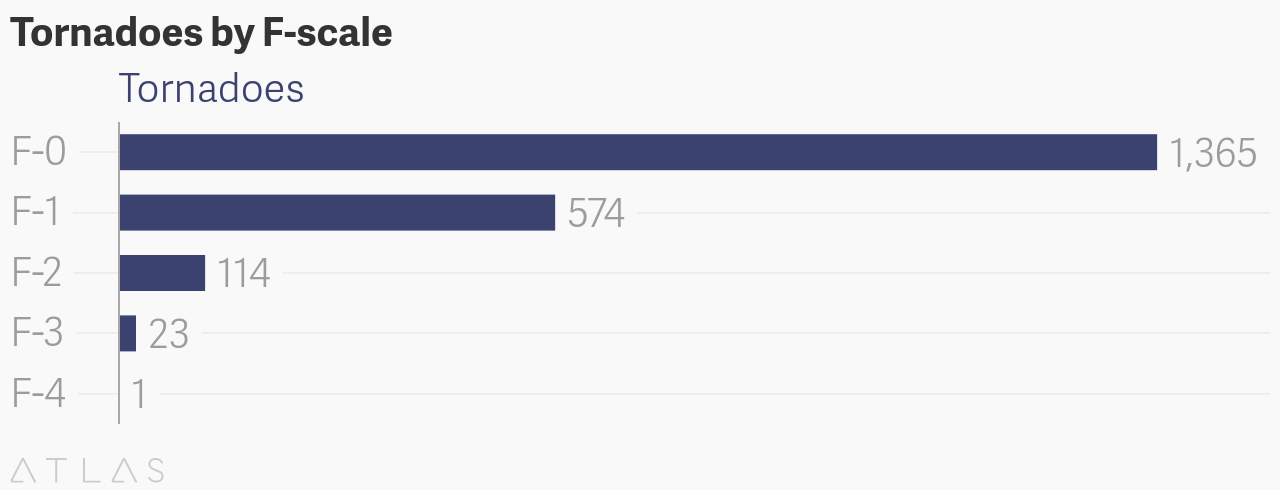
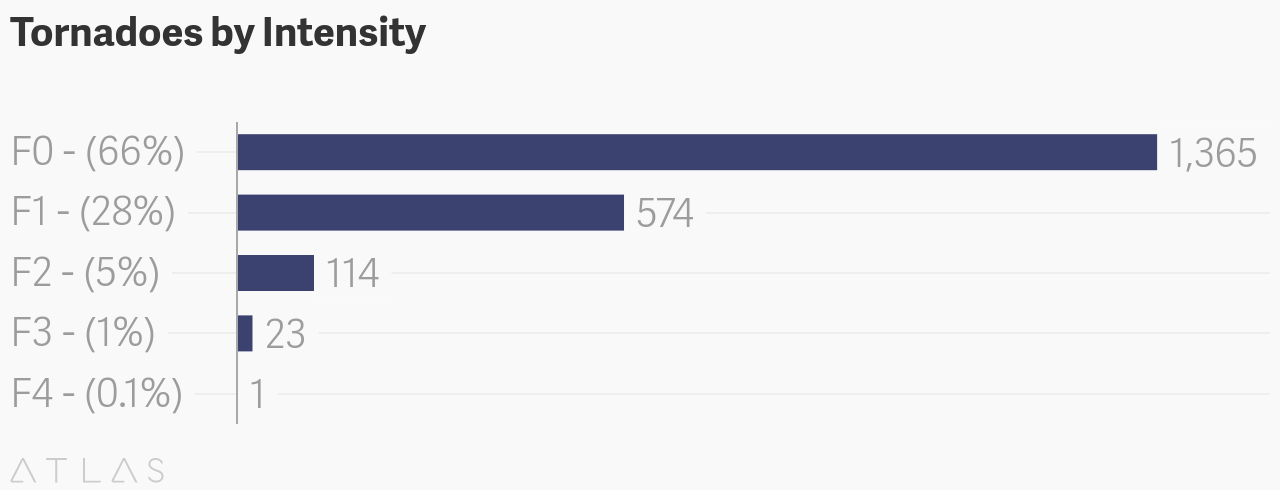
Add charts

diff --git a/tornadoes/filter-map/index.html b/tornadoes/filter-map/index.html
@@ -183,7 +183,6 @@
     <div class="row">
         <div class="large-10 large-centered columns">
             <h1>Colorado Tornadoes: By the Numbers</h1>
-            <h3>A breakdown of storms from 1950-2015</h3>
         </div>
     </div>
     <div class="row">
@@ -191,50 +190,56 @@
             <div class="large-5 medium-5 small-12 columns panel right">
                 <h4 style="font-weight: bold; text-align: center;">Fujita Tornado Damage Scale</h4>
                 <p class="f-scale-underline"><strong>F0</strong> &bull; <em>wind speed < 73 mph</em></p>
-                <p>Light damage. Some damage to chimneys; branches broken off trees; shallow-rooted trees pushed over; sign boards damaged.</p>
+                <p class="f-scale-text">Light damage. Some damage to chimneys; branches broken off trees; shallow-rooted trees pushed over; sign boards damaged.</p>
                 <p class="f-scale-underline"><strong>F1</strong> &bull; <em> wind speed 73-112 mph</em></p>
-                <p>Moderate damage. Peels surface off roofs; mobile homes pushed off foundations or overturned; moving autos blown off roads.</p>
+                <p class="f-scale-text">Moderate damage. Peels surface off roofs; mobile homes pushed off foundations or overturned; moving autos blown off roads.</p>
                 <p class="f-scale-underline"><strong>F2</strong> &bull; <em>wind speed 113-157 mph</em></p>
-                <p>Considerable damage. Roofs torn off frame houses; mobile homes demolished; boxcars overturned; large trees snapped or uprooted; light-object missiles generated; cars lifted off ground.</p>
+                <p class="f-scale-text">Considerable damage. Roofs torn off frame houses; mobile homes demolished; boxcars overturned; large trees snapped or uprooted; light-object missiles generated; cars lifted off ground.</p>
                 <p class="f-scale-underline"><strong>F3</strong> &bull; <em>wind speed 158-206 mph</em></p>
-                <p>Severe damage. Roofs and some walls torn off well-constructed houses; trains overturned; most trees in forest uprooted; heavy cars lifted off the ground and thrown.</p>
+                <p class="f-scale-text">Severe damage. Roofs and some walls torn off well-constructed houses; trains overturned; most trees in forest uprooted; heavy cars lifted off the ground and thrown.</p>
                 <p class="f-scale-underline"><strong>F4</strong> &bull; <em>wind speed 207-260 mph</em></p>
-                <p>Devastating damage. Well-constructed houses leveled; structures with weak foundations blown away some distance; cars thrown and large missiles generated.</p>
+                <p class="f-scale-text">Devastating damage. Well-constructed houses leveled; structures with weak foundations blown away some distance; cars thrown and large missiles generated.</p>
                 <p class="f-scale-underline"><strong>F5</strong> &bull; <em>wind speed 261-318 mph</em></p>
-                <p>Incredible damage. Strong frame houses leveled off foundations and swept away; automobile-sized missiles fly through the air in excess of 100 meters (109 yds); trees debarked; incredible phenomena will occur.</p>
+                <p class="f-scale-text">Incredible damage. Strong frame houses leveled off foundations and swept away; automobile-sized missiles fly through the air in excess of 100 meters (109 yds); trees debarked; incredible phenomena will occur.</p>
+                <!-- <a href="tornadoes_scale.png"><img src="tornadoes_scale.png" style="border: 1px solid rgba(0,0,0,.2);"></a> -->
+                <div class="atlas-chart" data-id="HJKlfQWM" data-width="640" data-height="449"><img src="https://www.theatlas.com/i/atlas_HJKlfQWM.png" style="max-width: 100%;"></div><script src="https://www.theatlas.com/javascripts/atlas.js"></script>
             </div>
             <div class="large-7 medium-7 small-12 columns">
+                <h3 style="text-align: center;">A breakdown of storms from 1950-2015</h3>
                 <p>Lorem ipsum dolor sit amet, consectetur adipiscing elit. Duis eget dui ipsum. Suspendisse maximus lorem leo, hendrerit feugiat tellus sollicitudin a. Vestibulum dapibus mauris consequat ultrices venenatis. In hac habitasse platea dictumst. Curabitur non tincidunt elit. Donec non fringilla justo. Quisque tincidunt ligula a vulputate hendrerit. Nulla at quam consequat, aliquet elit vitae, pellentesque est. Suspendisse rhoncus felis in sodales porta. Vestibulum posuere luctus pretium. Curabitur fermentum arcu et ipsum ornare vehicula. Sed venenatis orci eget erat blandit, efficitur pharetra elit congue.</p>
                 <p>Donec lectus mauris, posuere non tristique ac, tincidunt ut eros. Cras eu blandit metus, sed consectetur metus. Cras scelerisque tellus non est maximus cursus. Duis et ex nisl. Nam viverra fringilla erat, eget interdum mi tristique eget. Praesent interdum turpis libero, rhoncus gravida lorem aliquam ut. Donec accumsan enim nibh, lobortis porttitor magna dictum sit amet. Donec tincidunt rhoncus nisl ultrices rutrum. Maecenas condimentum ex at nunc viverra, ultrices rutrum nibh tincidunt. Aenean eu arcu lorem. Fusce dictum odio vel tellus posuere, quis venenatis nunc posuere.</p>
-                <a href="tornadoes_scale.png"><img src="tornadoes_scale.png" style="border: 1px solid rgba(0,0,0,.2);"></a>
+                <div class="atlas-chart" data-id="SJgwxJ_M" data-width="640" data-height="449"><img src="https://www.theatlas.com/i/atlas_SJgwxJ_M.png" style="max-width: 100%;"></div><script src="https://www.theatlas.com/javascripts/atlas.js"></script></script>
             </div>
         </div>
     </div>
     <div class="row">
         <div class="large-12 medium-11 medium-centered small-11 small-centered columns">
             <hr>
+            <h3>Tornado Locations</h3>
+            <p>The map shows the approximate starting location of all tornadoes rated F1 or higher from 1950-2015.
+                <br><em>Click/unclick checkboxes below to show only certain categories; click map markers for details; markers are grouped depending on map zoom level: hover over group marker for area, click to zoom in.</em></p>
             <form id='fScaleFilter'>
                 <div id="legend-container">
                     <p class="legend"><strong>Show only certain categories of storms:</strong>
                         <br><em>&#9733; indicates injuries/fatalities</em></p>
                     <div class="legend" id="f-1">
                         <label>
-                            <input type='checkbox' name='filters' onclick='showTornadoes();' value="1" checked>F-1
+                            <input type='checkbox' name='filters' onclick='showTornadoes();' value="1" checked>F1
                         </label>
                     </div>
                     <div class="legend" id="f-2">
                         <label>
-                            <input type='checkbox' name='filters' onclick='showTornadoes();' value="2" checked> F-2
+                            <input type='checkbox' name='filters' onclick='showTornadoes();' value="2" checked> F2
                         </label>
                     </div>
                     <div class="legend" id="f-3">
                         <label>
-                            <input type='checkbox' name='filters' onclick='showTornadoes();' value="3" checked> F-3
+                            <input type='checkbox' name='filters' onclick='showTornadoes();' value="3" checked> F3
                         </label>
                     </div>
                     <div class="legend" id="f-4">
                         <label>
-                            <input type='checkbox' name='filters' onclick='showTornadoes();' value="4" checked> F-4
+                            <input type='checkbox' name='filters' onclick='showTornadoes();' value="4" checked> F4
                         </label>
                     </div>
                 </div>

diff --git a/tornadoes/filter-map/styles.css b/tornadoes/filter-map/styles.css
@@ -47,6 +47,9 @@ body {
     margin-top: 0;
     padding: 0;
 }
+p.f-scale-text {
+    font-size: ;
+}
 
 h1 {
     font-family: 'Arial', serif;
